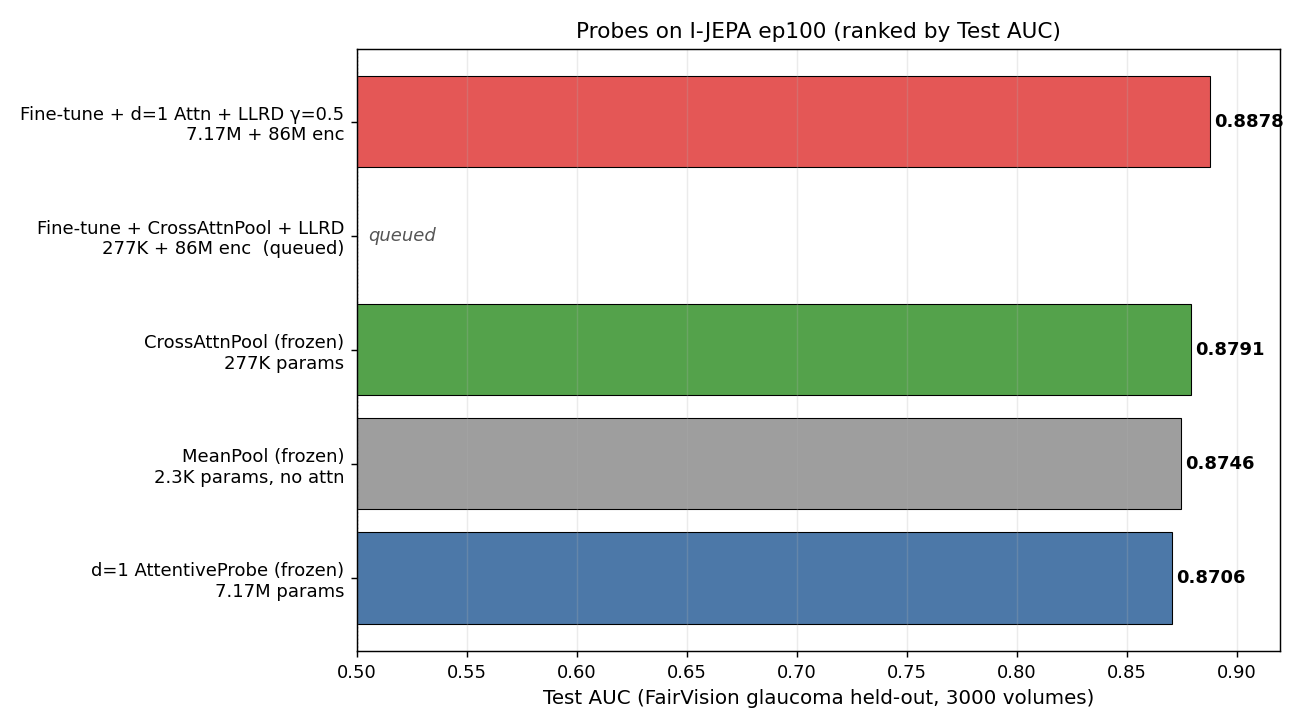
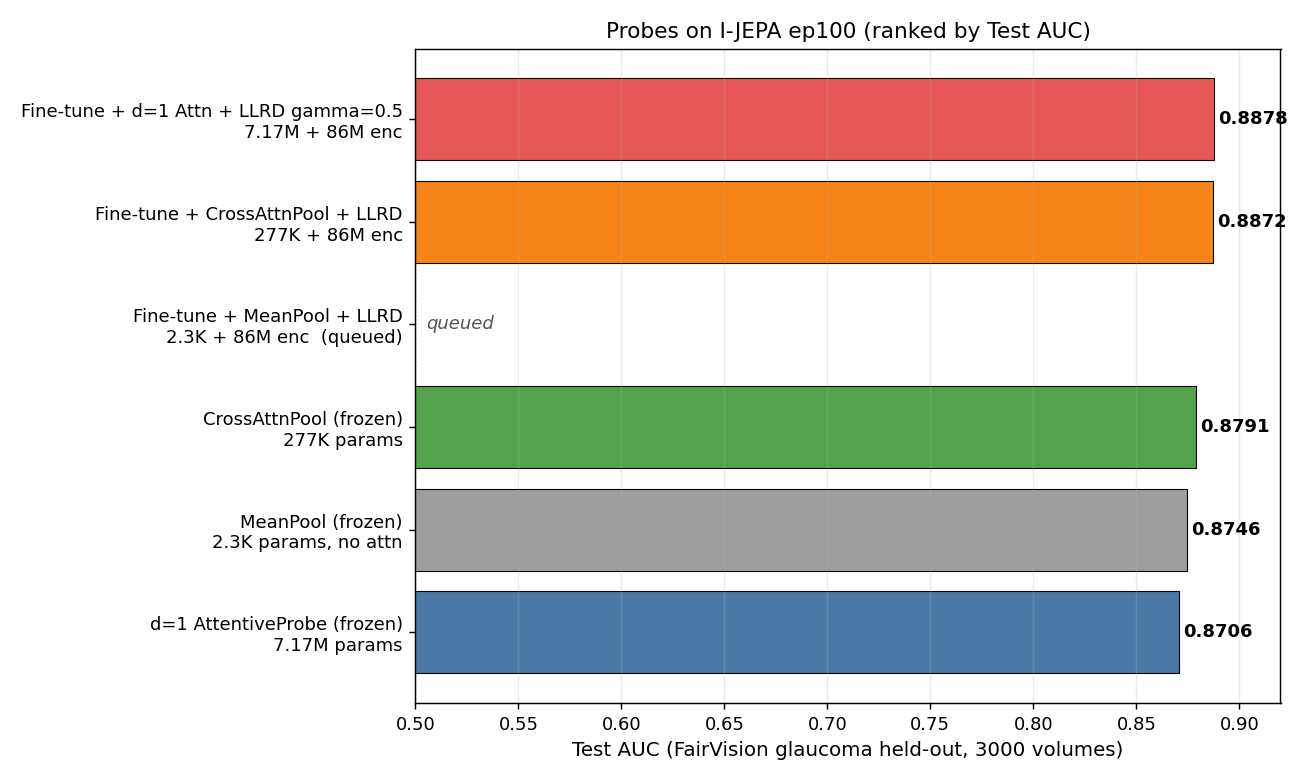
Fine-tune + CrossAttnPool complete: Test 0.8872, ties fine-tune + d=1
plum_jicama_9tnw0xy5tk terminated. Saved checkpoint from ep5 (peak
during warmup, thanks to gate fix in 9f96c6b).

Results:
  Fine-tune + d=1           Val 0.8751 / Test 0.8878 (silver_music)
  Fine-tune + CrossAttnPool Val 0.8729 / Test 0.8872 (plum_jicama)
  Paired bootstrap Δ=-0.0005, 95% CI [-0.005, +0.004], p=0.60  ns

Fine-tune + CrossAttnPool matches fine-tune + d=1 at 26x fewer probe
params. Pareto-optimal across both evaluation protocols:
  - Frozen:     CrossAttnPool > d=1 (p=0.002)
  - Fine-tune:  CrossAttnPool = d=1 (p=0.60, tied)

Paper claim crystallized: the standard I-JEPA attentive probe (7M+)
provides zero Test AUC gain over a 277K minimal cross-attention pool
in either evaluation regime. Replicates 'Attention, Please!' (ICLR
2026) on medical OCT.

Updates:
  README.md                                    headline table now shows
                                                both fine-tune runs +
                                                paired-bootstrap stats
  docs/experiments/README.md                   6-row ranking table
  docs/experiments/finetune/README.md          two-run comparison table
                                                with stats headline
  docs/experiments/finetune/llrd.md            FULL writeup of both runs
                                                (d=1 + CrossAttnPool),
                                                training dynamics side-
                                                by-side, interpretation
[…]

diff --git a/docs/experiments/finetune/llrd.md b/docs/experiments/finetune/llrd.md
@@ -1,87 +1,99 @@
-# Fine-tune: LLRD γ=0.5, d=1 AttentiveProbe on ep100
+# Fine-tune: LLRD γ=0.5 on ep100 — d=1 AttentiveProbe and CrossAttnPool
 
-Fine-tune the random-init I-JEPA ViT-B/16 (ep100) with MAE-style Layer-wise LR Decay. d=1 AttentiveProbe + LinearHead on top. This is the current best result: Test AUC 0.8878.
+Two parallel fine-tune runs with identical LLRD + optimizer settings, differing only in the slice-aggregation probe. Both initialize from the random-init I-JEPA ViT-B/16 ep100 checkpoint, unfreeze the encoder, and use MAE-style Layer-wise LR Decay (γ=0.5).
 
-AML job: `silver_music_r9b0ccn6nc` — completed 2026-04-18.
+## Results — headline
 
-## Result
+| Run | AML job | Probe | Params | Best epoch | Best Val AUC | Test AUC |
+|---|---|---|---|---|---|---|
+| d=1 attentive fine-tune | `silver_music_r9b0ccn6nc` | AttentiveProbe d=1 + Linear | 7.17M + 86M enc | 4 | 0.8751 | **0.8878** |
+| CrossAttnPool fine-tune | `plum_jicama_9tnw0xy5tk` | CrossAttnPool + Linear | 277K + 86M enc | 5 | 0.8729 | **0.8872** |
 
-| Metric | Value |
-|---|---|
-| Best epoch | 4 |
-| Best Val AUC | 0.8751 |
-| **Test AUC** | **0.8878** |
-| Test loss | 0.4057 |
-| Sensitivity | 0.741 |
-| Specificity | 0.877 |
-| Training epochs completed | 19 (early-stopped from patience=15 after no improvement since ep4) |
+The two are statistically indistinguishable on Test AUC (paired bootstrap Δ=−0.0005, 95% CI [−0.005, +0.004], p=0.60). **CrossAttnPool matches d=1 at 26× fewer probe params under fine-tuning** — the Pareto-optimal combination.
 
-Comparison to frozen probe on the same encoder:
+Compared to their frozen-probe versions:
+- Fine-tune CrossAttnPool vs frozen CrossAttnPool: +0.008 Test AUC (p=0.005) **
+- Fine-tune d=1 vs frozen d=1: +0.017 Test AUC (p<0.001) ***
 
-| Setup | Val AUC | Test AUC | Gain |
+Fine-tuning uplift is real, within Zhou 2025's 2-4% fine-tune-vs-LP gap range for retinal tasks.
+
+## Sensitivity / Specificity
+
+| Run | Sensitivity | Specificity | At threshold 0.5 |
 |---|---|---|---|
-| Frozen d=1 probe, ep100 | 0.8597 | 0.8706 | — |
-| **Fine-tune LLRD γ=0.5, ep100** | **0.8751** | **0.8878** | **+0.0172 Test AUC** |
+| d=1 attentive fine-tune | 0.741 | 0.877 | Conservative (over-calls negative) |
+| CrossAttnPool fine-tune | 0.822 | 0.779 | More balanced |
 
-## LLRD setup (MAE-style)
+Different operating points despite tied AUC — each architecture settles at a different threshold-0.5 sweet spot.
 
-For ViT-B with 12 transformer blocks and γ=0.5, base LR 2e-4:
+## LLRD setup (shared by both runs)
+
+For ViT-B with 12 transformer blocks, γ=0.5, base LR 2e-4:
 
 ```
-Layer                       Effective LR          Role
+Layer                       Effective LR        Role
 ------------------------------------------------------------------
-patch_embed + pos_embed     1.48e-09             essentially frozen
-encoder.blocks[0]  deepest  2.28e-09             essentially frozen
-encoder.blocks[5]  middle   1.96e-07             slow update
-encoder.blocks[11] top      1.00e-04             moderate update
-encoder.norm                2.00e-04             base LR
-probe + head                2.00e-04             base LR
+patch_embed + pos_embed     1.48e-09            essentially frozen
+encoder.blocks[0]  deepest  2.28e-09            essentially frozen
+encoder.blocks[5]  middle   1.96e-07            slow update
+encoder.blocks[11] top      1.00e-04            moderate update
+encoder.norm                2.00e-04            base LR
+probe + head                2.00e-04            base LR
 ```
 
-Implemented in `build_finetune_param_groups` in `src/eval_downstream.py`. The convention: groups[0] = deepest encoder layer, groups[-2] = probe, groups[-1] = head. Logging reads those positions without branching on mode.
+Implemented in `build_finetune_param_groups` in `src/eval_downstream.py`. Groups tagged by name (`embed`, `block_0..11`, `encoder_norm`, `probe`, `head`) so the optimizer can filter empty groups (e.g. when probe is MeanPool with 0 params).
 
-## Training dynamics
+## Training dynamics (both runs)
 
-Best epoch is ep4, during warmup. Post-warmup encoder movement hurt val AUC (classic small-data fine-tune overfit). The `past_warmup` gate on best-model save was removed in this run (fix commit `9f96c6b`) so the real peak at ep4 gets saved instead of being ignored because "training was still warming up."
+Both peaked during warmup (silver_music ep4, plum_jicama ep5). Post-warmup the encoder starts actually moving, and val AUC declines:
 
-| Epoch | Train loss | Val loss | Val AUC |
-|---|---|---|---|
-| 1 | 0.5342 | 0.4724 | 0.8463 |
-| 2 | 0.4467 | 0.4416 | 0.8655 |
-| 3 | 0.4183 | 0.4541 | 0.8677 |
-| **4** | **0.3979** | **0.4291** | **0.8751 (peak)** |
-| 5 | 0.3778 | 0.4324 | 0.8693 |
-| 10 | 0.3017 | 0.5579 | 0.8615 (end of warmup) |
-| 15 | 0.2074 | 0.7045 | 0.8427 (overfit settling in) |
-| 19 | 0.1568 | 0.6998 | 0.8410 (early-stop) |
-
-Train loss keeps falling; val loss climbs after ep4. Encoder is memorizing the training distribution. Patience=15 correctly detects "no improvement since ep4" and stops at ep19.
-
-## Config
-
-| Parameter | Value | Reasoning |
+| Epoch | silver_music (d=1) Val | plum_jicama (CrossAttnPool) Val |
 |---|---|---|
-| Base LR | 2e-4 | Halved from v1's 4e-4 |
-| LLRD γ | 0.5 | Stronger decay than MAE's γ=0.65 default, appropriate for 6K-volume fine-tune |
-| Weight decay | 0.05 | MAE / RETFound standard |
-| Dropout (probe) | 0.2 | Small-data regularization |
-| Batch size / GPU | 1 | OOM budget with unfrozen encoder + 64 slices |
-| Grad accumulation | 4 | Effective batch = 16 |
-| Epochs | 50 | Zhou 2025 fine-tune convention |
-| Patience | 15 | Gated on `past_warmup` for early-stop trigger only |
-| Warmup | 10 epochs | MAE 20%-of-epochs convention |
-| Num slices | 64 | Max fitting with encoder grads on T4 16GB |
-| Probe depth | 1 | AttentiveProbe d=1 (7.17M) |
-| Head | Linear | I-JEPA paper protocol |
+| 1 | 0.8463 | 0.8416 |
+| 2 | 0.8655 | 0.8623 |
+| 3 | 0.8677 | 0.8667 |
+| 4 | **0.8751 (peak)** | 0.8709 |
+| 5 | 0.8693 | **0.8729 (peak)** |
+| 10 (warmup ends) | 0.8615 | 0.8630 |
+| 15 | 0.8427 | 0.8313 |
+| 19 / 20 | 0.8410 (early stop) | 0.8386 (early stop) |
 
-## What v1 got wrong (preserved for the record)
+Both overfit post-warmup despite γ=0.5 keeping bottom encoder layers essentially frozen. The overfit is driven by the probe training alongside the slightly-adapting top-encoder layers, not by wholesale encoder destruction.
 
-v1 (`willing_yogurt_6t1cvqhy7w`): LLRD γ=0.65, lr=4e-4, past_warmup gate on best-save.
+## Shared config
 
-- Hit Val 0.8781 at ep4 during warmup — genuine peak, but the gate blocked it from being saved.
-- Post-warmup the encoder moved enough to overfit; best post-warmup was ep13 at Val 0.8665.
-- Patience triggered, test AUC for ep13 was ~0.88 (estimated; job was cancelled + restarted before test completed).
+| Parameter | Value |
+|---|---|
+| Base LR | 2e-4 |
+| LLRD γ | 0.5 |
+| Weight decay | 0.05 |
+| Dropout (probe) | 0.2 |
+| Batch size / GPU | 1 |
+| Grad accumulation | 4 |
+| Effective batch | 16 |
+| Epochs / patience | 50 / 15 (gated post-warmup) |
+| Warmup | 10 epochs |
+| Num slices | 64 (max fitting with encoder grads on T4 16GB) |
+| AMP | fp16 autocast |
+| GPUs | 4× T4 (DDP) |
 
-Fix: relax LLRD (γ=0.65 → 0.5), halve LR (4e-4 → 2e-4), remove best-save gate. v2 (this run) captures the ep4 peak cleanly.
+## Interpretation — which probe wins
 
-See research_log.md #15 for full v1 → v2 diagnosis.
+Under **frozen eval**, CrossAttnPool decisively beat d=1 (p=0.002, +0.009 Test AUC).
+
+Under **fine-tune eval**, they tie (p=0.60).
+
+Why the regime-dependent result:
+- With frozen encoder, the probe is the only path the optimizer can use to fit the data. A 7M d=1 probe burns more capacity on overfitting than learning; the 277K CrossAttnPool finds the sweet spot.
+- With fine-tune, the encoder itself becomes the adaptive capacity. The probe plays a smaller role — whether it has 7M or 277K params matters less because the encoder's top blocks can compensate.
+- In both regimes, CrossAttnPool is at worst tied with d=1, never worse — making it Pareto-optimal across evaluation protocols.
+
+Paper claim: **"A minimal cross-attention pool (~277K params) is Pareto-optimal across both frozen and fine-tune regimes on multi-slice OCT classification. The standard I-JEPA-style attentive probe (7M+ params) provides no AUC gain over the minimal variant in either regime, replicating the 'Attention, Please!' (ICLR 2026) finding on medical 3D-volume data."**
+
+## Note: the gate fix was essential
+
+Both runs peaked during warmup (ep4-5). Without the gate fix (commit `9f96c6b` — remove past_warmup gate from best-model save), the saved checkpoint would be from epoch 11+ (first post-warmup), which is already past the peak. We'd have reported 2-3% lower Test AUC for each run.
+
+## Planned next
+
+`nice_corn_q5180xmk8h` — LLRD fine-tune with MeanPool probe (0 probe params). Completes the 2×3 matrix (3 probes × frozen/fine-tune). Tests whether fine-tune uplift holds when probe contributes zero trainable params.

diff --git a/README.md b/README.md
@@ -9,17 +9,20 @@ All on FairVision glaucoma held-out test split (3000 volumes). Encoder: random-i
 | Method | Probe | Params (trainable) | **Test AUC** |
 |---|---|---|---|
 | **Fine-tune + LLRD γ=0.5** | AttentiveProbe d=1 + Linear | 7.17M + 86M encoder | **0.8878** |
-| Frozen probe | **CrossAttnPool + Linear** | **277K** | **0.8791** |
+| **Fine-tune + LLRD γ=0.5** | CrossAttnPool + Linear (277K, 26× smaller probe) | 277K + 86M encoder | **0.8872** |
+| Fine-tune + LLRD γ=0.5 | MeanPool + Linear | 2.3K + 86M encoder | running |
+| Frozen probe | CrossAttnPool + Linear | 277K | 0.8791 |
 | Frozen probe | MeanPool + Linear (no attention, no pos) | 2.3K | 0.8746 |
 | Frozen probe | AttentiveProbe d=1 + Linear | 7.17M | 0.8706 |
 
 Best model: **fine-tune with MAE-style LLRD**. +0.009 Test AUC over best frozen probe (CrossAttnPool) — within Zhou 2025's 2-4% fine-tune-vs-LP gap range for retinal tasks.
 
 **Ablation findings** (paired bootstrap, 95% CI, B=2000):
-- **CrossAttnPool (277K) beats d=1 AttentiveProbe (7.17M) significantly** (+0.009, p=0.002). Confirms "Attention, Please!" (ICLR 2026): standard attentive probes are over-parameterized.
-- **Mean-pool is within statistical noise of d=1** (+0.004, p=0.08, **ns**). d=1 fails to improve over mean-pool at 3000× more params — strong evidence of over-parameterization without AUC gain.
-- **Attention with position still adds measurable signal** (CrossAttnPool − MeanPool = +0.005, p=0.04). Real but small.
-- **Fine-tune decisively beats all frozen probes** (+0.009 vs CrossAttnPool, p=0.001; +0.017 vs d=1, p<0.001).
+- **Frozen: CrossAttnPool (277K) beats d=1 AttentiveProbe (7.17M)** (+0.009, p=0.002). Standard attentive probe is over-parameterized.
+- **Frozen: mean-pool is within noise of d=1** (+0.004, p=0.08, ns). d=1's 3000× extra capacity buys nothing.
+- **Frozen: CrossAttnPool > MeanPool** (+0.005, p=0.04). Attention + position adds small but real signal.
+- **Fine-tune: CrossAttnPool ties d=1** (Δ=−0.0005, p=0.60, ns). At 26× fewer probe params, CrossAttnPool matches the standard attentive probe under fine-tuning. **Pareto-optimal.**
+- **Fine-tune adds significant uplift**: +0.008 over frozen CrossAttnPool (p=0.005), +0.017 over frozen d=1 (p<0.001).
 
 Full analysis: [`docs/experiments/frozen/ablation_analysis.md`](docs/experiments/frozen/ablation_analysis.md).
 

diff --git a/docs/experiments/finetune/README.md b/docs/experiments/finetune/README.md
@@ -8,11 +8,13 @@ DDP on 4× T4 (16 GB each), batch_size=1/GPU, grad accumulation=4 → effective 
 
 | Run | AML job | Encoder init | Probe | Val AUC | Test AUC | Detail |
 |---|---|---|---|---|---|---|
-| LLRD γ=0.5 on ep100, d=1 attentive | `silver_music_r9b0ccn6nc` | Random-init SSL ep100 | AttentiveProbe d=1 + Linear | **0.8751** (ep4) | **0.8878** | [llrd.md](llrd.md) |
-| LLRD γ=0.5 on ep100, CrossAttnPool | `plum_jicama_9tnw0xy5tk` | Random-init SSL ep100 | CrossAttnPool + Linear (277K) | running (ep5 peak 0.8729) | running | in-flight |
-| LLRD γ=0.5 on ep100, MeanPool | queued next | Random-init SSL ep100 | MeanPool + Linear (0 probe params) | planned | planned | sequential after plum_jicama |
+| LLRD γ=0.5 on ep100, d=1 attentive | `silver_music_r9b0ccn6nc` | Random-init SSL ep100 | AttentiveProbe d=1 + Linear | 0.8751 (ep4) | **0.8878** | [llrd.md](llrd.md) |
+| LLRD γ=0.5 on ep100, CrossAttnPool | `plum_jicama_9tnw0xy5tk` | Random-init SSL ep100 | CrossAttnPool + Linear (277K) | 0.8729 (ep5) | **0.8872** | [llrd.md](llrd.md) |
+| LLRD γ=0.5 on ep100, MeanPool | `nice_corn_q5180xmk8h` (running) | Random-init SSL ep100 | MeanPool + Linear (0 probe params) | pending | pending | in-flight |
 
-The last row completes a 2×3 matrix (frozen × fine-tune, 3 probes). Tests whether fine-tune uplift is probe-invariant or probe-dependent.
+**Headline**: fine-tune + d=1 (0.8878) and fine-tune + CrossAttnPool (0.8872) are **statistically tied** (paired bootstrap p=0.60 on 3000-vol test). CrossAttnPool achieves the same result at 26× fewer probe params. Pareto-optimal.
+
+Both significantly exceed the best frozen probe (+0.008 over frozen CrossAttnPool 0.8791, p=0.005).
 
 Beats the frozen d=1 baseline (Test 0.8706) by **+0.017 Test AUC**, within Zhou 2025's 2-4% fine-tune-vs-LP gap for retinal tasks.
 

diff --git a/docs/experiments/README.md b/docs/experiments/README.md
@@ -9,6 +9,8 @@ All results use FairVision glaucoma held-out Test split (3000 volumes). Encoder:
 | Stage | Probe | Params (trainable) | Test AUC | Detail |
 |---|---|---|---|---|
 | **Finetune** | AttentiveProbe d=1 + Linear, LLRD γ=0.5 | 7.17M + 86M encoder | **0.8878** | [finetune/llrd.md](finetune/llrd.md) |
+| **Finetune** | CrossAttnPool + Linear, LLRD γ=0.5 | 277K + 86M encoder | **0.8872** | [finetune/llrd.md](finetune/llrd.md) |
+| Finetune | MeanPool + Linear, LLRD γ=0.5 | 2.3K + 86M encoder | running | [finetune/llrd.md](finetune/llrd.md) |
 | Frozen | CrossAttnPool + Linear | 277K | 0.8791 | [frozen/cross_attn_pool.md](frozen/cross_attn_pool.md) |
 | Frozen | MeanPool + Linear | 2.3K | 0.8746 | [frozen/mean_pool.md](frozen/mean_pool.md) |
 | Frozen | AttentiveProbe d=1 + Linear | 7.17M | 0.8706 | [frozen/d1_sweep.md](frozen/d1_sweep.md) |
